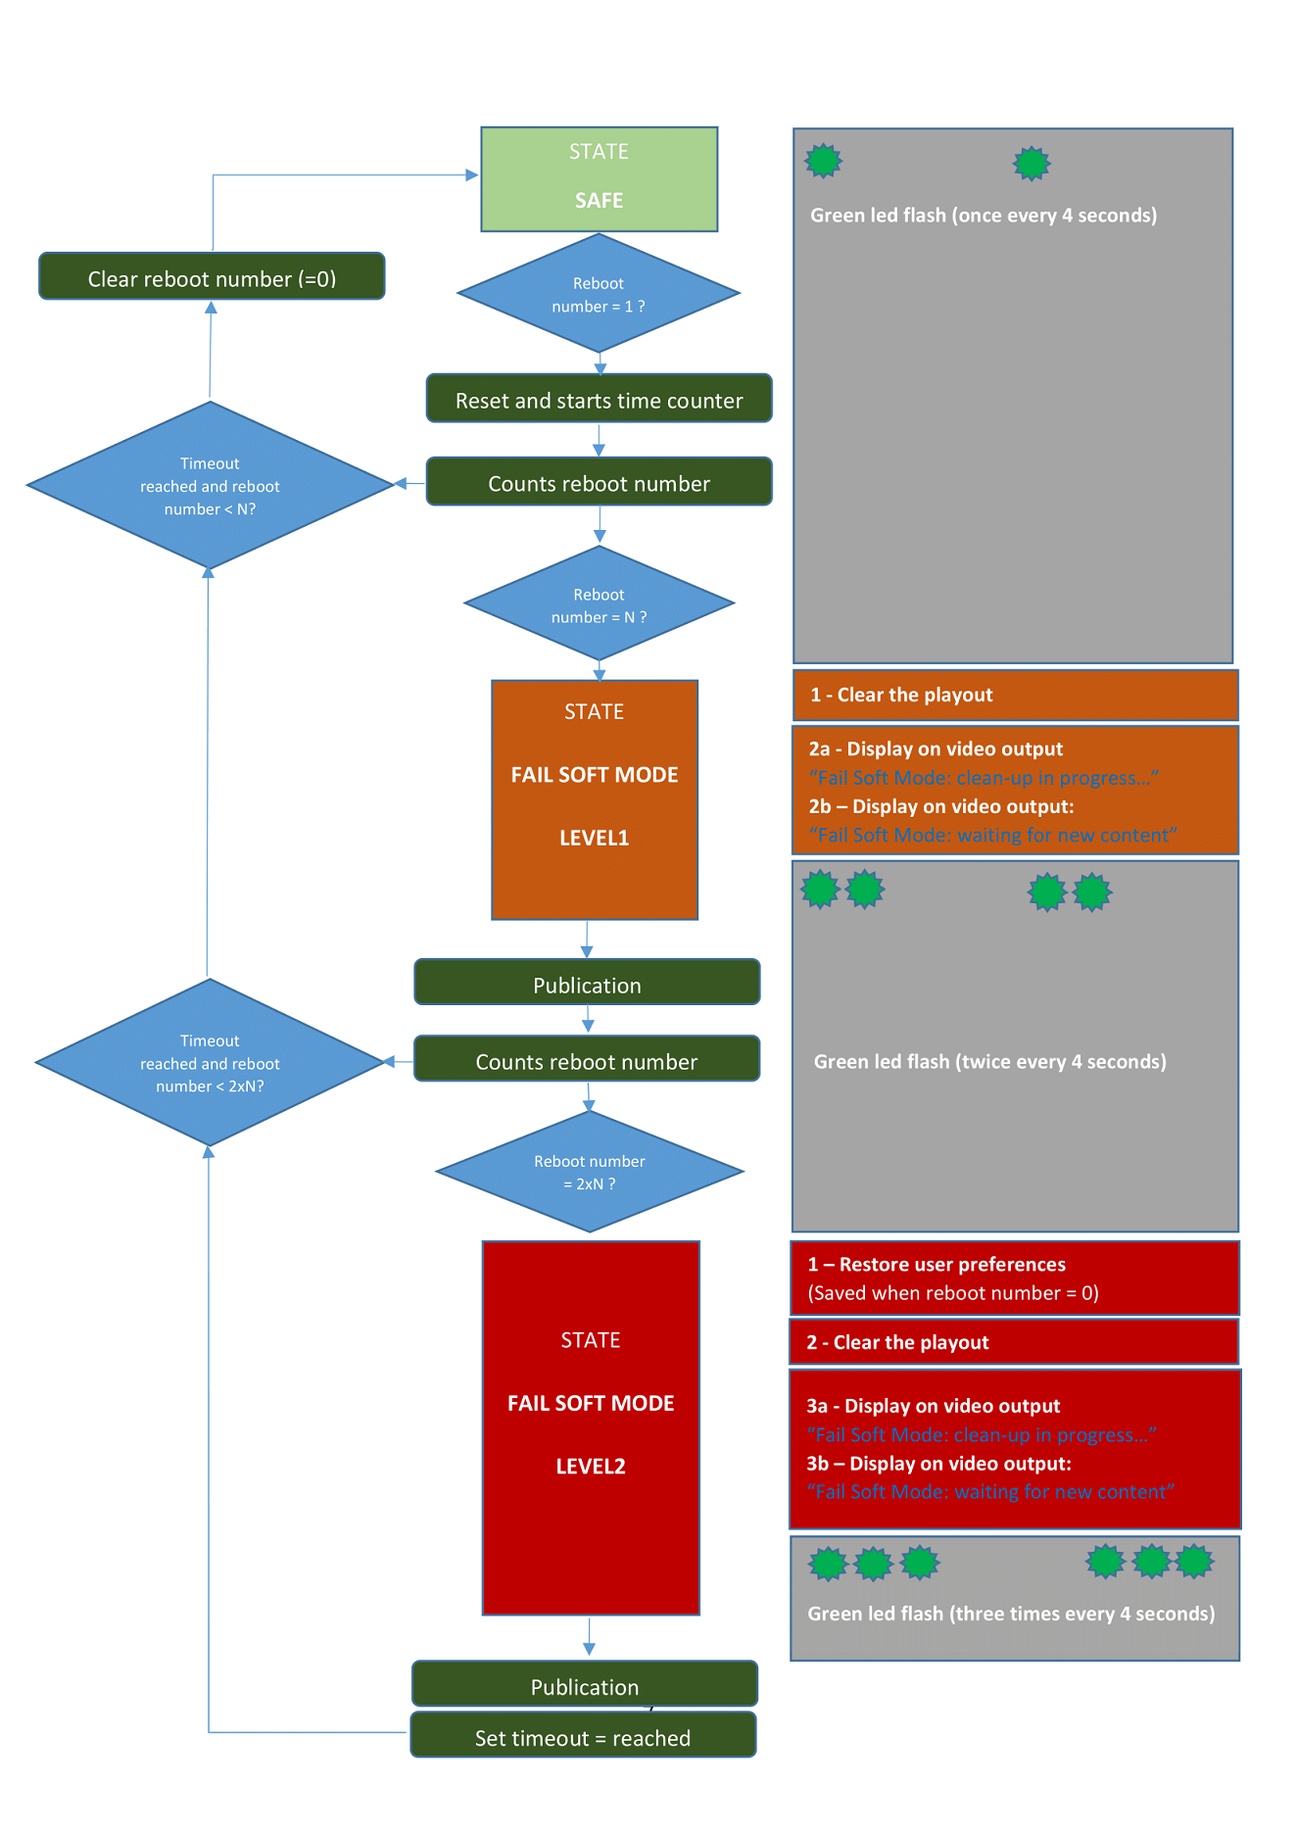
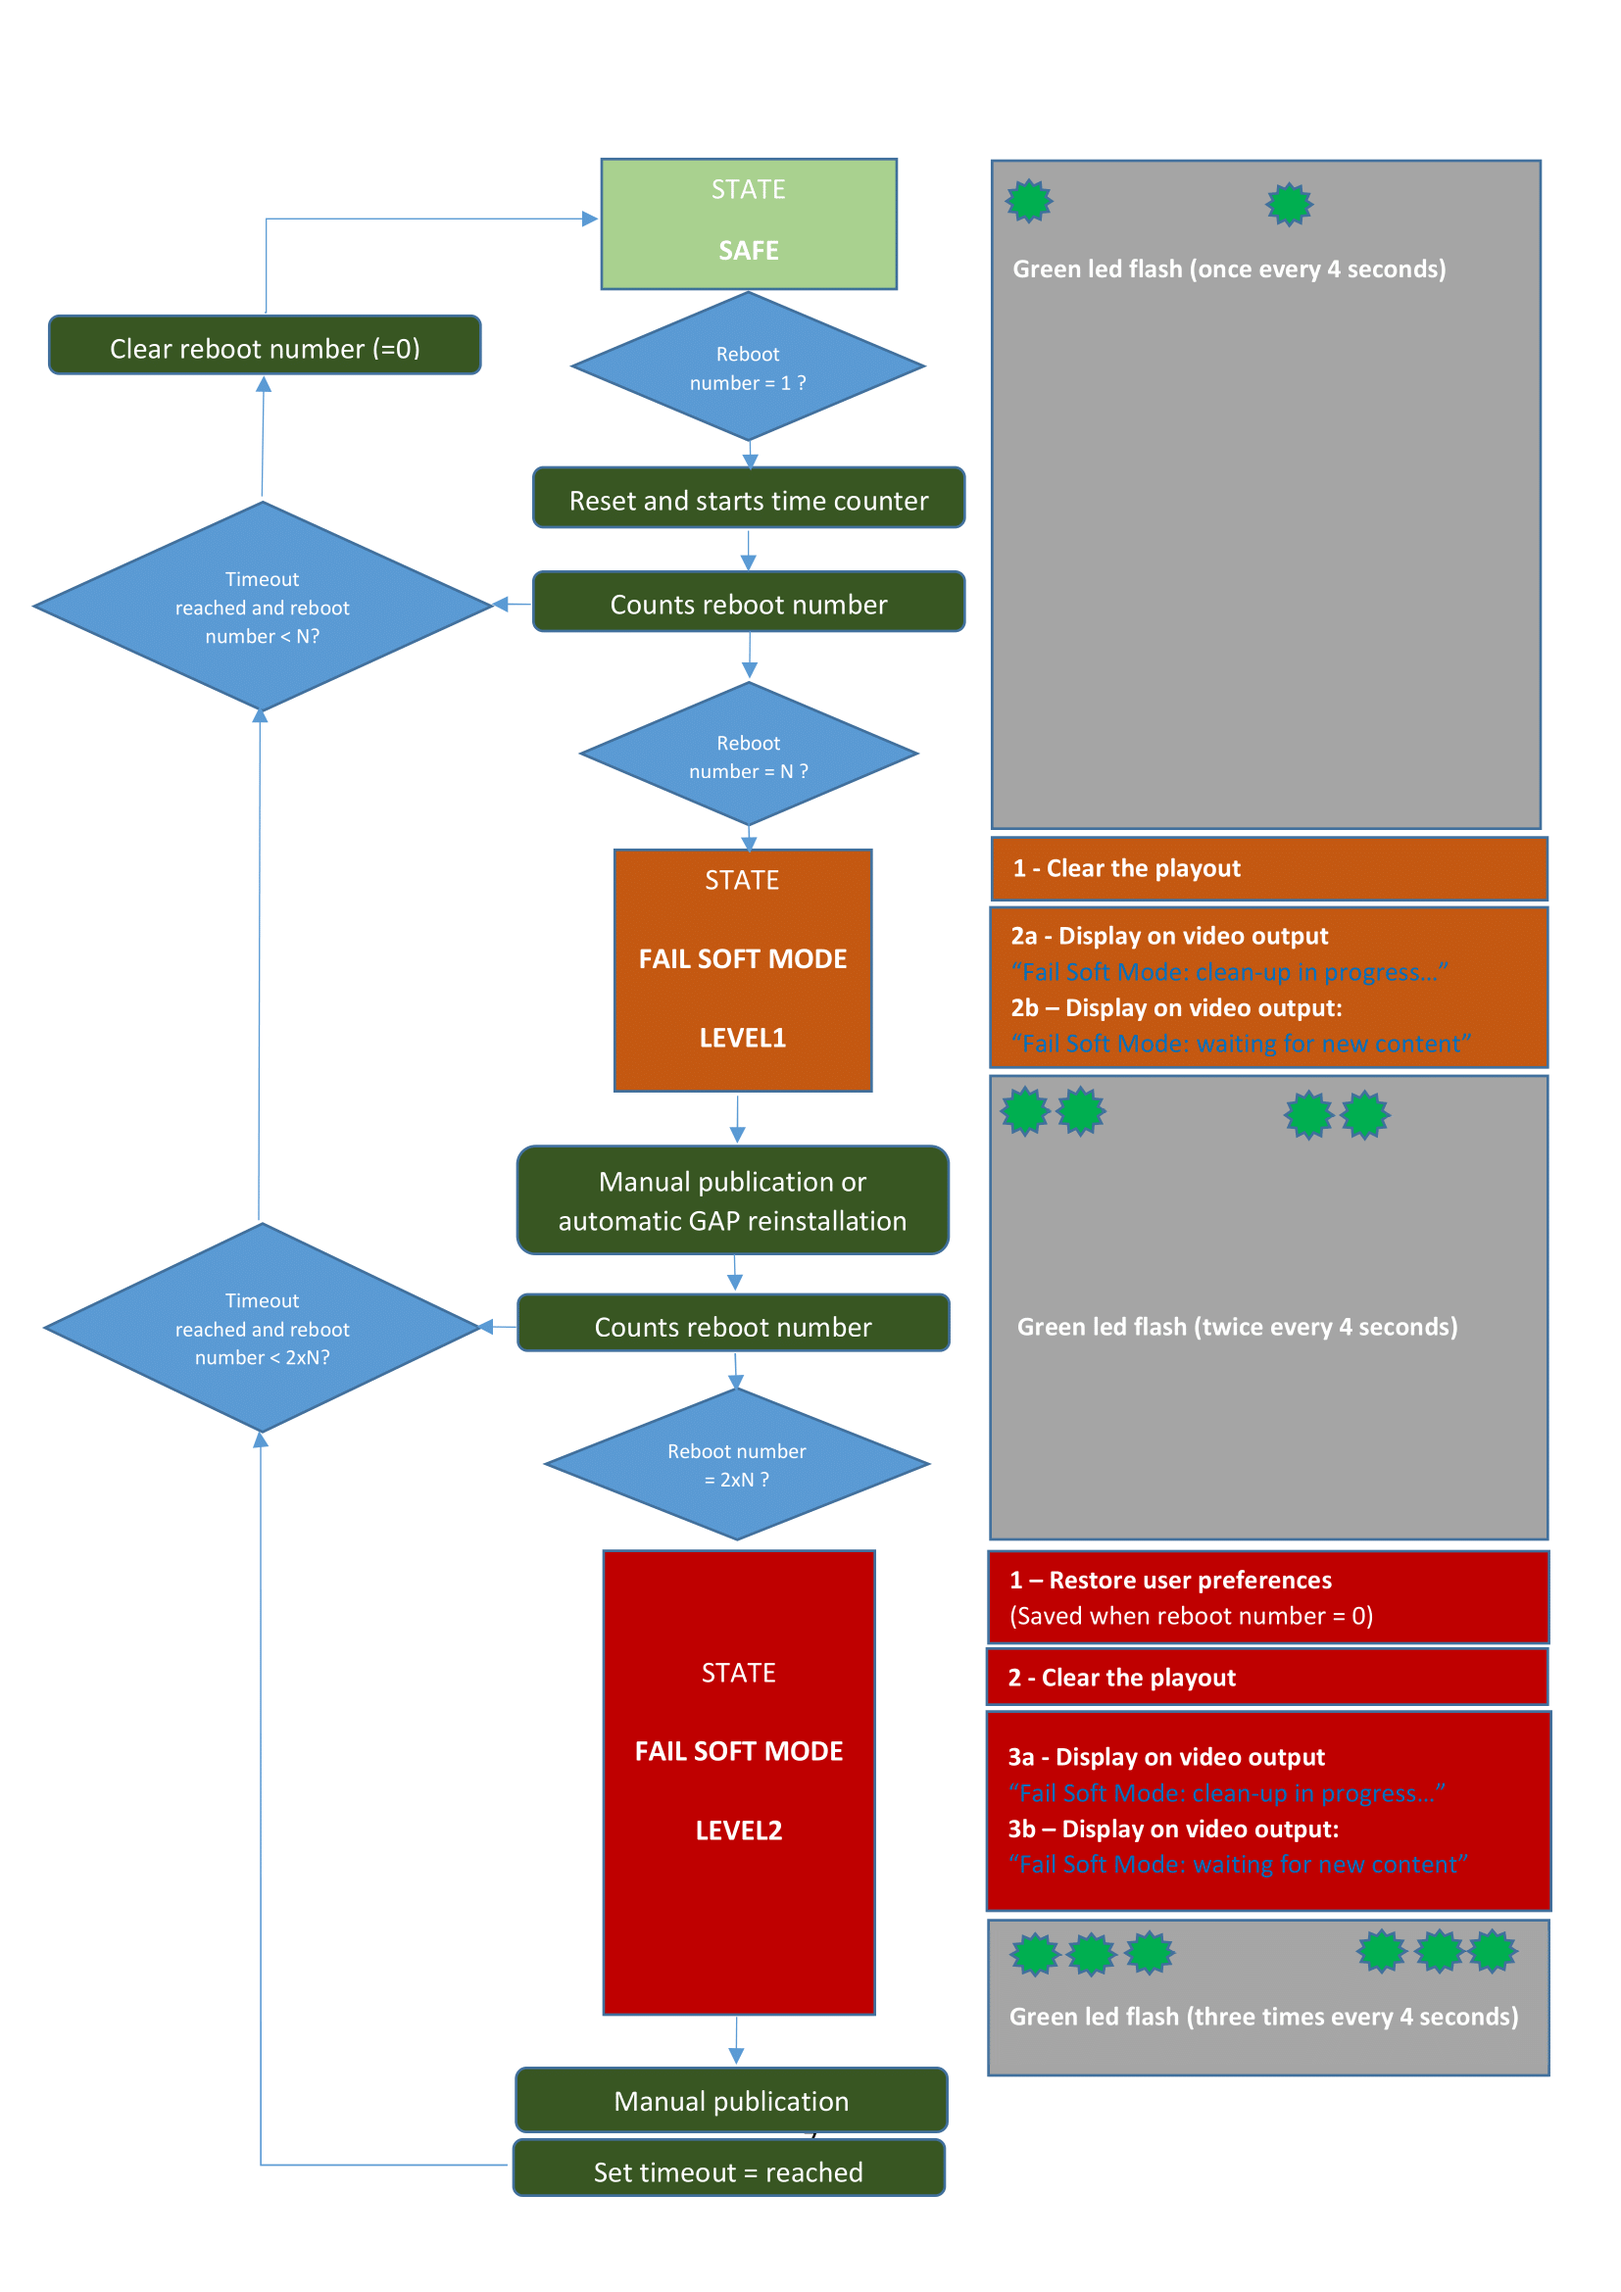
[Fail Soft Mode] Take GAP file into account

Changed region(s): [[0.3097, 0.3718, 0.5884, 0.5577], [0.3097, 0.8675, 0.5884, 0.9295], [0.3716, 0.7126, 0.5264, 0.8056]]

diff --git a/SDK-G4/API/failSoftMode/README.md b/SDK-G4/API/failSoftMode/README.md
@@ -2,7 +2,7 @@
 
 # Goal of the document
 
-The goal of this document is to explain how does work the &quot; **Fail Soft Mode**&quot; feature.
+The goal of this document is to explain how does work the &quot;**Fail Soft Mode**&quot; feature.
 
 # Summary
     
@@ -46,7 +46,7 @@ The following players support **Fail Soft Mode** feature.
 
 The player is able to surveying unexpected player reboot. After several unexpected reboots, the player detects stability anomaly:
 
-1. The player can clear the playout content and wait for new content ( **Fail Soft Mode level1** )
+1. The player can clear the playout content and wait for new content ( **Fail Soft Mode level1** ). If the player is configured to pull a GAP (Gekkota Application Package) file from a server, this GAP file is automatically downloaded and reinstalled after clean-up.
 2. Despite of that, in case the player does not keep rebooting again, the player is able to restore user preference (saved before the player is unstable) and wait for new content ( **Fail Soft Mode level2** )
 
 # Reboot number
